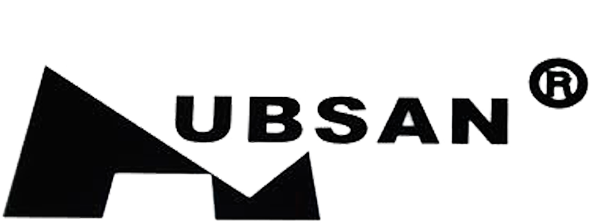
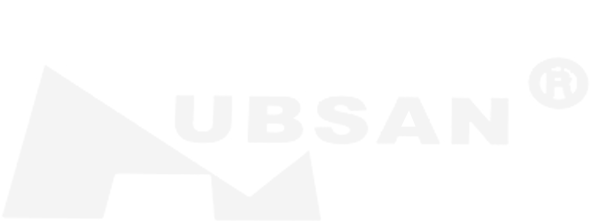
dark theme
css dark

Changed region(s): [[0.0, 0.2986, 0.54, 1.0], [0.27, 0.2443, 0.99, 0.6787]]

diff --git a/css/style.css b/css/style.css
@@ -15,6 +15,12 @@ body{
 	font-family: 'Comfortaa', cursive;
 	font-weight: 300!important;
 }
+
+.negro1{
+	background-color: #202020 !important;
+}
+
+
 .headerLine{
 	position: relative;
 	width: 100%;
@@ -39,7 +45,7 @@ body{
 	-moz-background-size: cover;
 	-o-background-size: cover;
 	background-size: cover;
-	border-bottom: 150px solid white;
+	border-bottom: 150px solid #202020;
 	border-left: 3000px solid transparent;
 }
 /*.container{
@@ -297,6 +303,7 @@ border: none;
 	font-family: 'Comfortaa', cursive;
 	font-size:28px;
 	font-weight:400;
+	color: #b4b4b4;
 }
 .cBusiness h4{
 	margin-top: 16px;
@@ -304,6 +311,7 @@ border: none;
 	font-family: 'Comfortaa', cursive;
 	font-size:16px;
 	font-weight:300;
+	color: #16ccea;
 }
 /**/
 .centPic{
@@ -350,7 +358,7 @@ border: none;
 	-moz-background-size: cover;
 	-o-background-size: cover;
 	background-size: cover;
-	border-bottom: 150px solid white;
+	border-bottom: 150px solid #202020;
 	border-left: 3000px solid transparent;
 }
 .line2:before{
@@ -369,7 +377,7 @@ border: none;
 	-o-background-size: cover;
 	background-size: cover;
 	/* height: 10px; */
-	border-top: 194px solid white;
+	border-top: 194px solid #202020;
 	border-right: 3000px solid transparent;
 	//bottom: 489px;
 }
@@ -699,7 +707,7 @@ border: none;
 	-moz-background-size: cover;
 	-o-background-size: cover;
 	background-size: cover;
-	border-bottom: 150px solid white;
+	border-bottom: 150px solid #202020;
 	border-left: 3000px solid transparent;
 }
 .line3:before{
@@ -718,7 +726,7 @@ border: none;
 	-o-background-size: cover;
 	background-size: cover;
 	/* height: 10px; */
-	border-top: 194px solid white;
+	border-top: 194px solid #202020;
 	border-right: 3000px solid transparent;
 	//bottom: 489px;
 }
@@ -1020,7 +1028,7 @@ border: none;
 	-moz-background-size: cover;
 	-o-background-size: cover;
 	background-size: cover;
-	border-bottom: 150px solid white;
+	border-bottom: 150px solid #202020;
 	border-left: 3000px solid transparent;
 }
 .line4:before{
@@ -1039,7 +1047,7 @@ border: none;
 	-o-background-size: cover;
 	background-size: cover;
 	/* height: 10px; */
-	border-top: 194px solid white;
+	border-top: 194px solid #202020;
 	border-right: 3000px solid transparent;
 	//bottom: 489px;
 }
@@ -1176,7 +1184,7 @@ border: none;
 	-moz-background-size: cover;
 	-o-background-size: cover;
 	background-size: cover;
-	border-bottom: 150px solid white;
+	border-bottom: 150px solid 202020;
 	border-left: 3000px solid transparent;
 }
 .line5:before{
@@ -1195,7 +1203,7 @@ border: none;
 	-o-background-size: cover;
 	background-size: cover;
 	/* height: 10px; */
-	border-top: 194px solid white;
+	border-top: 194px solid 202020;
 	border-right: 3000px solid transparent;
 	//bottom: 489px;
 }
@@ -1755,7 +1763,7 @@ textarea {
 	height: 100%;
 	
 	background: url(../images/bgFooter.png)  no-repeat;
-	background:#101010;
+	background:#202020;
 }
 .downLine{
 	margin-bottom: 35px;

diff --git a/index.html b/index.html
@@ -49,7 +49,7 @@
 		</script>
 		
 	</head>
-	<body>
+	<body class="negro1">
     
     <!--home start-->
     
@@ -88,7 +88,9 @@
 			</div>
 		</div>
 	</div>
-		<div class="container">
+
+
+		<div class="container " >
 			<div class="row wrap">
 				<div class="col-md-12 gallery"> 
 						<div class="camera_wrap camera_white_skin" id="camera_wrap_1">
@@ -111,10 +113,14 @@
 				</div>
 			</div>
 		</div>
-	</div>
-		<div class="container">
-			<div class="row">
-				<div class="col-md-4 project">
+	</div >
+
+
+
+
+		<div class="container ">
+			<div class="row ">
+				<div class="col-md-4 project ">
 
 				<img src="images/brand1.png" width="50%">
 				<!-- #camera_wr
@@ -143,7 +149,7 @@
 				</div>
 			</div>
 		</div>
-		<div class="container">
+		<div class="container ">
 			<div class="row">
 				<div class="col-md-12 cBusiness">
 				<br>
